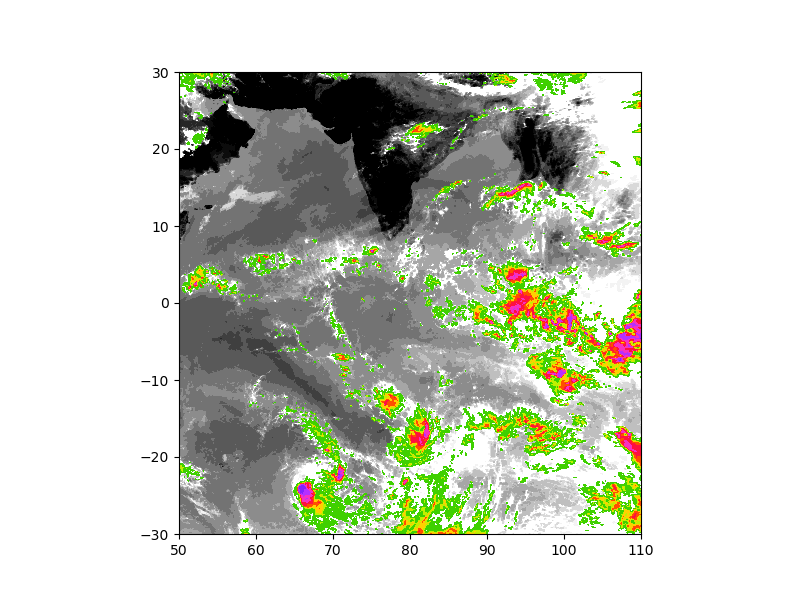
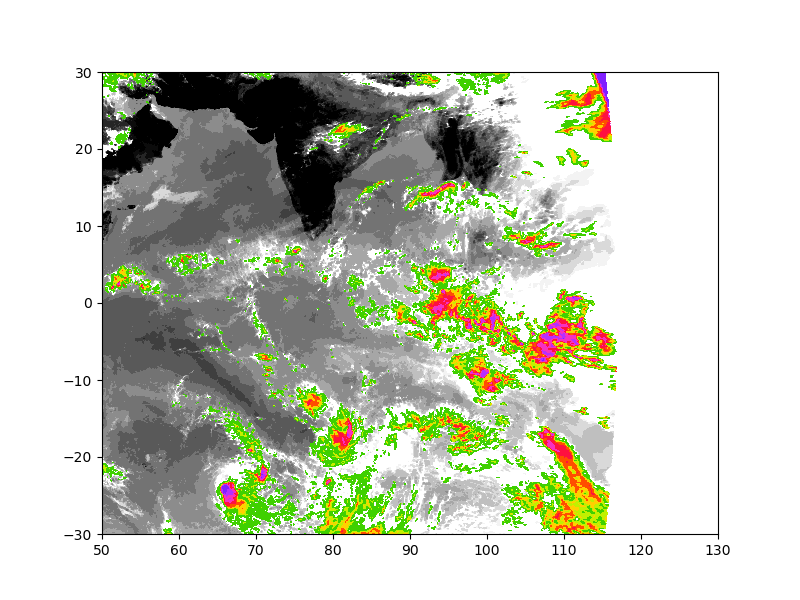
making plot

diff --git a/examine_satellite_data/plot_seviri_windowbt.py b/examine_satellite_data/plot_seviri_windowbt.py
@@ -42,7 +42,7 @@ def plot_windowbt( lon2d, lat2d, bt2d, ax ):
 
   # Plot out clr BTs
   clr_bts = bt2d*1.
-  clr_bts=np.nan#[ bt2d < 285 ] = np.nan
+  clr_bts[ bt2d < 285 ] = np.nan
   cnf_clr = ax.contourf( lon2d, lat2d, clr_bts, np.linspace(285,305,11),
                          cmap = 'binary', extend='max')
 
@@ -77,6 +77,6 @@ date = seviri_bt_obj.attrs['start_time']
 fig, axs = plt.subplots(nrows=1,ncols=1, figsize=(8,6))
 cnf_clr, cnf_cld = plot_windowbt( lon, lat, bt, axs )
 axs.set_ylim([-30,30])
-axs.set_xlim([50,110])
+axs.set_xlim([50,130])
 axs.set_aspect(1)
 plt.savefig('trial_seviri_bt_plot.png')
